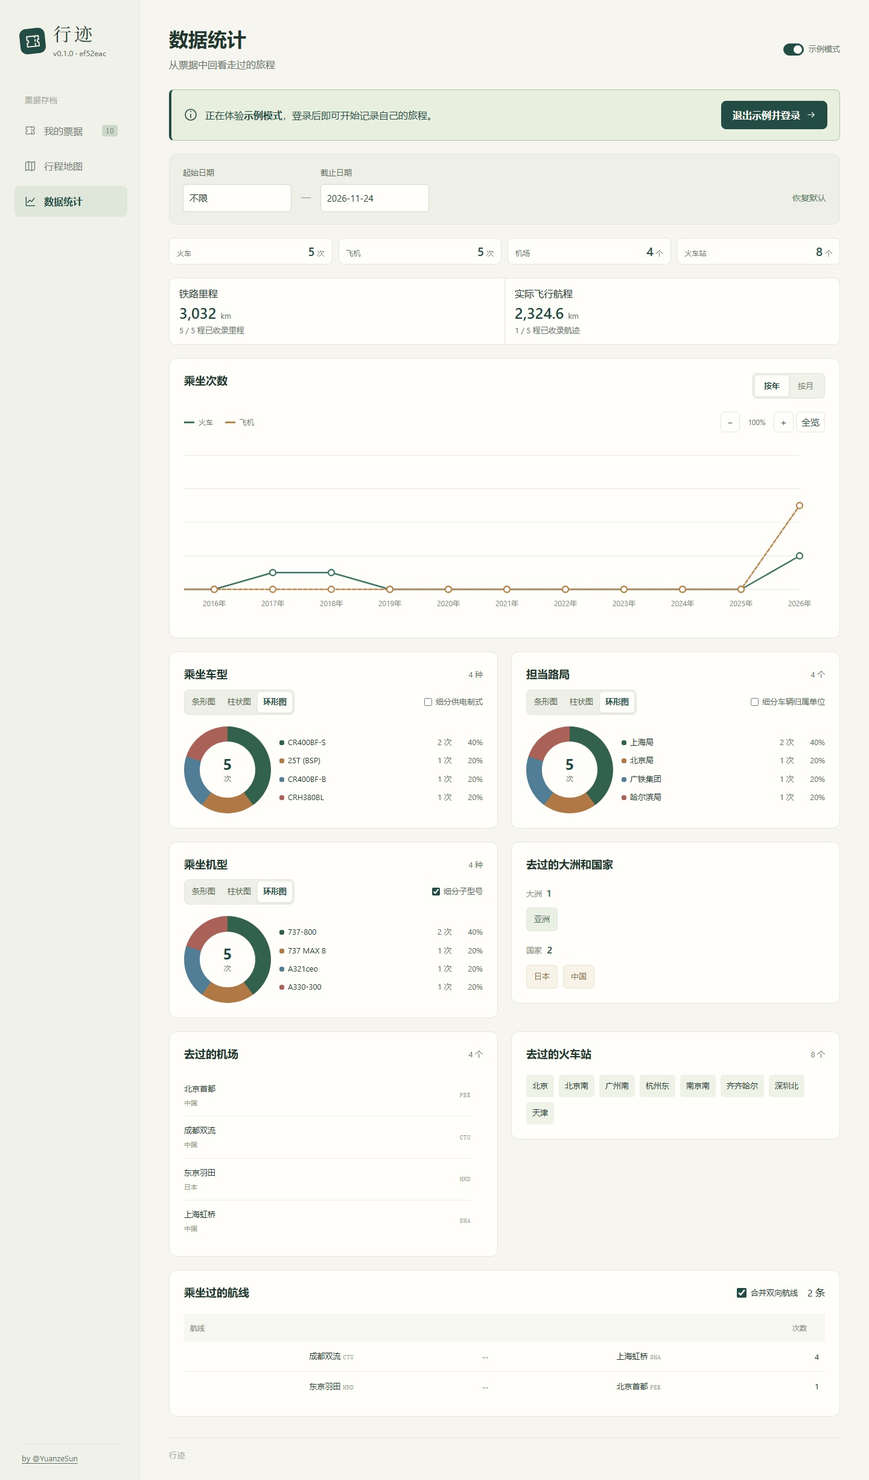
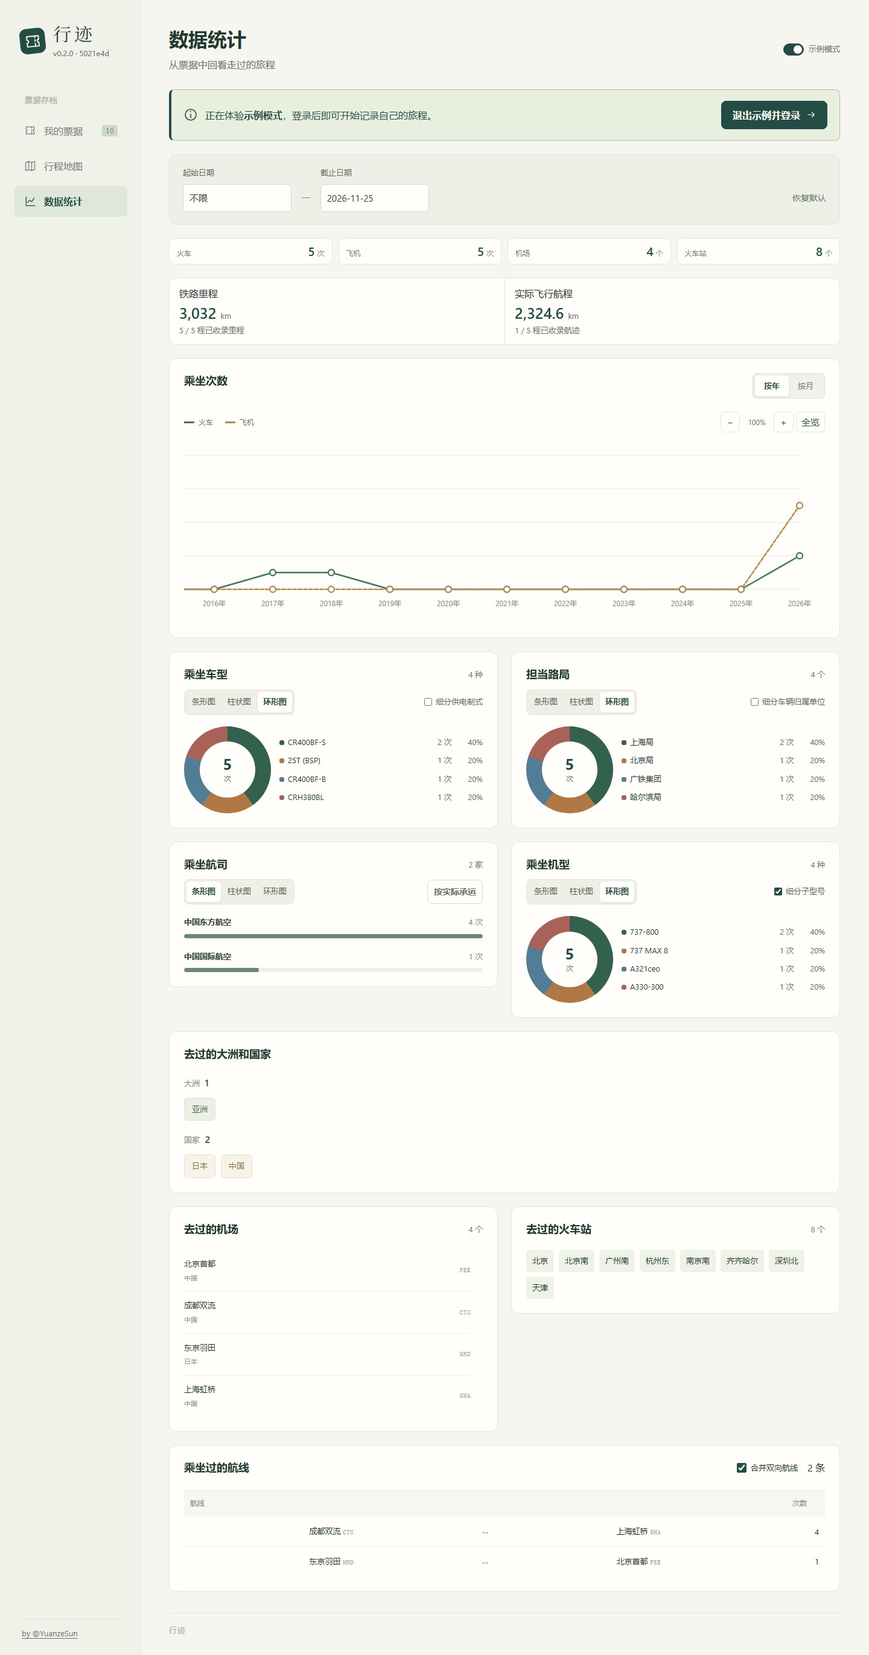
Rank airlines by flight segments with codeshare options

diff --git a/src/statistics.js b/src/statistics.js
@@ -11,7 +11,8 @@ function placesPanel(title, places, type) {
 const rankings = {
   'rail-models': { title: '乘坐车型', data: 'railModels', unit: '种', option: 'railPowerSupplies', label: '细分供电制式' },
   'rail-bureaus': { title: '担当路局', data: 'railBureaus', unit: '个', option: 'railUnits', label: '细分车辆归属单位' },
-  aircraft: { title: '乘坐机型', data: 'aircraft', unit: '种', option: 'aircraftSubtypes', label: '细分子型号' }
+  aircraft: { title: '乘坐机型', data: 'aircraft', unit: '种', option: 'aircraftSubtypes', label: '细分子型号', unknown: 'unknownAircraft', unknownLabel: '未识别机型' },
+  airlines: { title: '乘坐航司', data: 'airlines', unit: '家', defaultView: 'bars', unknown: 'unknownAirlines', unknownLabel: '未识别航司' }
 };
 
 export function mountStatistics(container, records, { options = {} } = {}) {
@@ -22,14 +23,15 @@ export function mountStatistics(container, records, { options = {} } = {}) {
   let series = [],chartCleanup=()=>{};
   const scrollPositions = { year: null, month: null };
   function rankingPanel(kind) {
-    const { title, data, unit, option, label } = rankings[kind];
-    const rows = statistics[data], view = rankingCharts[kind] || 'donut';
+    const { title, data, unit, option, label, defaultView = 'donut', unknown, unknownLabel } = rankings[kind];
+    const rows = statistics[data], view = rankingCharts[kind] || defaultView;
     const chooser = Object.entries(rankingViews).map(([value, name]) => `<button type="button" data-stat-view="${value}" aria-pressed="${view === value}">${name}</button>`).join('');
-    const grouping = `<label><input type="checkbox" data-stat-option="${option}" ${options[option] ? 'checked' : ''}/>${label}</label>`;
-    const unknown = kind === 'aircraft' && statistics.unknownAircraft
-      ? `<p class="fine-print">未识别机型 · ${statistics.unknownAircraft} 次</p>`
-      : '';
-    return `<section class="statistics-panel statistics-ranking" data-stat-ranking="${kind}"><header><h2>${title}</h2><span>${rows.length} ${unit}</span></header><div class="statistics-ranking-controls"><div class="statistics-view-picker" role="group" aria-label="${title}图表样式">${chooser}</div>${grouping}</div><div data-stat-plot>${rankingChartMarkup(title, rows, view)}</div>${unknown}</section>`;
+    const basis = options.marketingAirlines ? '按购票航司' : '按实际承运';
+    const grouping = kind === 'airlines'
+      ? `<button type="button" class="button secondary small" data-stat-option="marketingAirlines" aria-label="${basis}，点击切换代码共享统计口径" title="切换代码共享统计口径">${basis}</button>`
+      : option ? `<label><input type="checkbox" data-stat-option="${option}" ${options[option] ? 'checked' : ''}/>${label}</label>` : '';
+    const unidentified = statistics[unknown] ? `<p class="fine-print">${unknownLabel} · ${statistics[unknown]} 次</p>` : '';
+    return `<section class="statistics-panel statistics-ranking" data-stat-ranking="${kind}"><header><h2>${title}</h2><span>${rows.length} ${unit}</span></header><div class="statistics-ranking-controls"><div class="statistics-view-picker" role="group" aria-label="${title}图表样式">${chooser}</div>${grouping}</div><div data-stat-plot>${rankingChartMarkup(title, rows, view)}</div>${unidentified}</section>`;
   }
   function render() {
     chartCleanup();
@@ -52,8 +54,8 @@ export function mountStatistics(container, records, { options = {} } = {}) {
         `<div><span>${label}</span><strong>${count ? `${distance.toLocaleString('zh-CN', { maximumFractionDigits })} <small>km</small>` : '—'}</strong><span>${count} / ${total} ${coverage}</span></div>`).join('')}</section>
       <section class="statistics-panel statistics-trend"><header><h2>乘坐次数</h2><div class="statistics-period-controls"><div role="group" aria-label="统计图时间粒度">${[['year', '按年'], ['month', '按月']].map(([value, label]) => `<button data-stat-scale="${value}" aria-pressed="${options.period === value}">${label}</button>`).join('')}</div><label ${options.period === 'month' ? '' : 'hidden'}><span class="visually-hidden">月度图年份</span><select data-stat-year aria-label="月度图年份">${[...yearChoices].reverse().map(year => `<option ${options.year === year ? 'selected' : ''}>${e(year)}</option>`).join('')}</select></label></div></header>${tripChartMarkup(series,{zoom:options.chartZoom,viewportWidth:container.clientWidth || 720})}</section>
       <div class="statistics-columns">${rankingPanel('rail-models')}${rankingPanel('rail-bureaus')}</div>
-      <div class="statistics-columns">${rankingPanel('aircraft')}
-      <section class="statistics-panel"><header><h2>去过的大洲和国家</h2></header><h3>大洲 <span>${data.continents.length}</span></h3>${data.continents.length ? `<ul class="statistics-chips">${data.continents.map(row => `<li>${e(row.name)}</li>`).join('')}</ul>` : empty('暂无已识别的大洲')}<h3>国家 <span>${data.countries.length}</span></h3>${data.countries.length ? `<ul class="statistics-chips countries">${data.countries.map(row => `<li>${e(row.name)}</li>`).join('')}</ul>` : empty('暂无已识别的国家')}</section></div>
+      <div class="statistics-columns">${rankingPanel('airlines')}${rankingPanel('aircraft')}</div>
+      <section class="statistics-panel"><header><h2>去过的大洲和国家</h2></header><h3>大洲 <span>${data.continents.length}</span></h3>${data.continents.length ? `<ul class="statistics-chips">${data.continents.map(row => `<li>${e(row.name)}</li>`).join('')}</ul>` : empty('暂无已识别的大洲')}<h3>国家 <span>${data.countries.length}</span></h3>${data.countries.length ? `<ul class="statistics-chips countries">${data.countries.map(row => `<li>${e(row.name)}</li>`).join('')}</ul>` : empty('暂无已识别的国家')}</section>
       <div class="statistics-columns">${placesPanel('去过的机场', data.airports, 'airport')}${placesPanel('去过的火车站', data.stations, 'station')}</div>
       <section class="statistics-panel" data-stat-routes><header><h2>乘坐过的航线</h2><div class="statistics-route-controls"><label><input type="checkbox" data-stat-merge-routes ${options.mergeDirections ? 'checked' : ''}/>合并双向航线</label><span>${data.routes.length} 条</span></div></header>${data.routes.length ? `<div class="statistics-table-scroll"><table class="statistics-routes"><thead><tr><th>航线</th><th>次数</th></tr></thead><tbody>${data.routes.map(route => `<tr><td><div class="statistics-route-pair"><span class="statistics-route-endpoint">${e(route.from.name)} <code>${e(route.from.code)}</code></span><span class="statistics-route-arrow" role="img" aria-label="${options.mergeDirections ? '双向' : '前往'}">${options.mergeDirections ? '↔' : '→'}</span><span class="statistics-route-endpoint">${e(route.to.name)} <code>${e(route.to.code)}</code></span></div></td><td>${route.count}</td></tr>`).join('')}</tbody></table></div>` : empty('暂无可识别的航线')}</section>`}`;
     chartCleanup=bindTripChart(container,series,options,{onZoom:()=>{const scroll=container.querySelector('.statistics-chart-scroll');if(scroll)scrolled({target:scroll});}});
@@ -130,12 +132,17 @@ export function mountStatistics(container, records, { options = {} } = {}) {
     else render();
   }
   const visibility = () => { if (doc.visibilityState === 'visible') refreshDay(); };
+  function setRankingOption(key, value) {
+    options[key] = value;
+    const scroll = container.querySelector('.statistics-chart-scroll');
+    if (scroll) scrollPositions[options.period] = scroll.scrollLeft;
+    render();
+    container.querySelector(`[data-stat-option="${key}"]`).focus();
+  }
   const change = event => {
     const target = event.target;
     if (target.matches('[data-stat-option]') && ['railUnits','railPowerSupplies','aircraftSubtypes'].includes(target.dataset.statOption)) {
-      options[target.dataset.statOption] = target.checked;
-      const scroll=container.querySelector('.statistics-chart-scroll'); if(scroll) scrollPositions[options.period]=scroll.scrollLeft;
-      const key=target.dataset.statOption; render(); container.querySelector(`[data-stat-option="${key}"]`).focus(); return;
+      setRankingOption(target.dataset.statOption, target.checked); return;
     }
     else if (target.matches('[data-stat-merge-routes]')) {
       options.mergeDirections=target.checked;
@@ -147,6 +154,7 @@ export function mountStatistics(container, records, { options = {} } = {}) {
   const click = event => {
     const date = event.target.closest('[data-stat-date]');
     if (date) { openDate(date); return; }
+    if (event.target.closest('[data-stat-option="marketingAirlines"]')) { setRankingOption('marketingAirlines', !options.marketingAirlines); return; }
     const view = event.target.closest('[data-stat-view]');
     if (view) {
       if (view.getAttribute('aria-pressed') === 'true') return;

diff --git a/tests/statistics.test.js b/tests/statistics.test.js
@@ -7,6 +7,7 @@ import { journeyDate } from '../src/journey-date.js';
 import { statisticsOptions, statisticsRange, todayDate, journeyStatistics, tripSeries } from '../src/statistics-model.js';
 import { mountStatistics } from '../src/statistics.js';
 import { flightTrackRequest } from '../src/flight-track.js';
+import { createBoardingCode } from '../src/bcbp.js';
 
 const rail = extra => createRecord({ origin: '北京南', destination: '上海虹桥', departureDate: '2024-02-29', ...extra });
 const flight = extra => createRecord({ type: 'flight', template: 'air-boarding-pass', origin: 'PEK', destination: 'HND', departureDate: '2024-03-01', aircraft: 'Boeing 737-800', ...extra });
@@ -46,7 +47,7 @@ test('rail mileage and flown distance share the date filter and show independent
 });
 
 test('statistics default to an unbounded start and today, compare dates only and respect edited bounds', () => {
-  assert.deepEqual(statisticsOptions({}, '2026-11-16'), { ...range, period: 'year', year: '', chartZoom:1, mergeDirections:true, railUnits:false, railPowerSupplies:false, aircraftSubtypes:true });
+  assert.deepEqual(statisticsOptions({}, '2026-11-16'), { ...range, period: 'year', year: '', chartZoom:1, mergeDirections:true, railUnits:false, railPowerSupplies:false, aircraftSubtypes:true, marketingAirlines:false });
   const rows = [rail({ id: 'past' }), flight({ id: 'today', departureDate: '2026-11-16', departureTime: '23:59' }), rail({ id: 'future', departureDate: '2026-11-17' }), rail({ id: 'deleted', deleted: true }), rail({ id: 'undated', departureDate: '' })];
   const result = statisticsRange(rows, range);
   assert.deepEqual(result.records.map(row => row.id), ['past', 'today']); assert.equal(result.omittedDates, 1);
@@ -86,6 +87,56 @@ test('statistics keep airport and station identities, combine return air routes 
   assert.equal(data.unknownAircraft, 1); assert.equal(data.unknownRoutes, 1); assert.equal(data.unknownPlaces, 1);
   assert.deepEqual(data.countries.map(row => row.code).sort(), ['CN', 'JP']);
   assert.equal(JSON.stringify(rows), before);
+});
+
+test('the airline ranking merges recognized aliases and switches between operating and marketing carriers', () => {
+  const boarding = {
+    passenger: 'EXAMPLE/TRAVELER', pnr: 'AB1234', origin: 'PEK', destination: 'HND',
+    date: '2024-03-01', carrier: 'CX', flightNumber: '1234', seat: '12A', cabin: 'Y', sequence: '12', status: '1'
+  };
+  const code = createBoardingCode(boarding);
+  const rows = [
+    ...['国航', 'ＣＡ', 'CCA', 'Air China', '中国国际航空股份有限公司'].map(airline => flight({ airline })),
+    flight({ service: 'CA 181' }), flight({ service: 'AA81' }), flight({ airline: '美国航空' }),
+    flight({ service: 'CA121', airline: 'CZ', marketingCarrier: 'CA' }),
+    flight({ service: 'CA122', marketingCarrier: 'CA', boardingCode: code, boardingCodeSource: 'original', boardingLegIndex: '0' }),
+    flight({ ...boarding, seatClass: boarding.cabin, service: 'CA123', airline: '国航', marketingCarrier: 'CA',
+      boardingCode: code, boardingCodeSource: 'generated', boardingLegIndex: '0', boardingCodeOperatingFlight: 'CX1234' }),
+    flight({ service: 'CA124', marketingCarrier: 'CA' }), flight({ service: 'YY12' }),
+    flight({ airline: 'JL', departureDate: '2024-01-01' }), flight({ airline: 'JL', departureDate: '2200-01-01' }),
+    flight({ airline: 'JL', flightStatus: 'open' }), flight({ airline: 'JL', deleted: true })
+  ];
+  const options = { ...range, dateFrom: '2024-03-01' }, before = JSON.stringify(rows);
+  const result = journeyStatistics(rows, options, '2026-11-25');
+  assert.equal(result.airlines[0].name, '中国国际航空');
+  assert.deepEqual(Object.fromEntries(result.airlines.map(({ name, count }) => [name, count])), {
+    中国国际航空: 6, 国泰航空: 2, 美國航空: 2, 中国南方航空: 1
+  });
+  assert.equal(result.unknownAirlines, 2);
+  const purchased = journeyStatistics(rows, { ...options, marketingAirlines: true }, '2026-11-25');
+  assert.deepEqual(purchased.airlines, [{ name: '中国国际航空', count: 10 }, { name: '美國航空', count: 2 }]);
+  assert.equal(purchased.unknownAirlines, 1);
+  assert.equal(purchased.flight, result.flight);
+  assert.equal(JSON.stringify(rows), before);
+
+  const dom = new JSDOM('<div id="root"></div>'), root = dom.window.document.querySelector('#root');
+  const cleanup = mountStatistics(root, rows, { options: { ...options } });
+  const panel = () => root.querySelector('[data-stat-ranking="airlines"]');
+  const toggle = () => panel().querySelector('[data-stat-option="marketingAirlines"]');
+  assert.equal(panel().querySelector('header span').textContent, '4 家');
+  assert.match(panel().querySelector('li').textContent, /中国国际航空6 次/);
+  assert.match(panel().textContent, /未识别航司 · 2 次/);
+  panel().querySelector('[data-stat-view="donut"]').click();
+  assert.equal(panel().querySelector('.statistics-ring strong').textContent, '11');
+  assert.equal(toggle().textContent, '按实际承运');
+  toggle().click();
+  assert.equal(toggle().textContent, '按购票航司');
+  assert.equal(dom.window.document.activeElement, toggle());
+  assert.equal(panel().querySelector('.statistics-ring strong').textContent, '12');
+  assert.match(panel().textContent, /未识别航司 · 1 次/);
+  toggle().click();
+  assert.equal(panel().querySelector('.statistics-ring strong').textContent, '11');
+  cleanup(); dom.window.close();
 });
 
 test('geography uses each airport continent and correctly assigns Chinese regions and Lao railway stations', () => {

diff --git a/src/statistics-model.js b/src/statistics-model.js
@@ -1,6 +1,10 @@
 import {calendarDate} from './journey-date.js';
 import { resolvePlace } from './places.js';
 import { aircraftClassification } from './aircraft.js';
+import { airlineNameForCode, airlineNameForLabel } from './airline-codes.js';
+import { readBoardingCode } from './bcbp.js';
+import { operatingFlight } from './boarding-code-state.js';
+import { flightNumber } from './flight-query.js';
 import { dateInterval } from './search.js';
 import { CONTINENT_AIRPORT_CODES } from './data/airport-geography.js';
 import { isJourneyRecord } from './record-kind.js';
@@ -28,7 +32,7 @@ export function todayDate(date = new Date()) {
 export function statisticsOptions(input = {}, today = todayDate()) {
   const selectedEnd = input.dateTo || today;
   const dateTo = dateInterval(selectedEnd)?.end > today ? today : selectedEnd;
-  return { dateFrom: input.dateFrom ?? '', dateTo, period: input.period === 'month' ? 'month' : 'year', year: input.year || '', chartZoom:Number.isFinite(input.chartZoom) ? Math.max(.0001,Math.min(8,input.chartZoom)) : 1, mergeDirections: input.mergeDirections !== false, railUnits:input.railUnits === true, railPowerSupplies:input.railPowerSupplies === true, aircraftSubtypes:input.aircraftSubtypes !== false };
+  return { dateFrom: input.dateFrom ?? '', dateTo, period: input.period === 'month' ? 'month' : 'year', year: input.year || '', chartZoom:Number.isFinite(input.chartZoom) ? Math.max(.0001,Math.min(8,input.chartZoom)) : 1, mergeDirections: input.mergeDirections !== false, railUnits:input.railUnits === true, railPowerSupplies:input.railPowerSupplies === true, aircraftSubtypes:input.aircraftSubtypes !== false, marketingAirlines:input.marketingAirlines === true };
 }
 
 export function statisticsRange(records, input = {}, today = todayDate()) {
@@ -55,11 +59,23 @@ function placeGeography(record, side) {
   return { ...place, country: ['HK', 'MO', 'TW'].includes(place.country) ? 'CN' : place.country, continent: airportContinents.get(place.code) || '' };
 }
 
+function flightAirline(record, byMarketing) {
+  const operated = operatingFlight(record.boardingCodeOperatingFlight)?.carrier;
+  const saved = airlineNameForLabel(operated || record.airline);
+  if (!byMarketing && saved) return saved;
+  const original = record.boardingCodeSource === 'original' && readBoardingCode(record.boardingCode, record.boardingLegIndex);
+  const fromBoardingCode = airlineNameForLabel(original?.carrier);
+  const marketed = airlineNameForLabel(record.marketingCarrier) || airlineNameForLabel(original?.marketingCarrier);
+  const carrier = /^([A-Z]{2,3}|[A-Z]\d|\d[A-Z])\d{1,5}[A-Z]?$/.exec(flightNumber(record.service))?.[1];
+  const byFlightNumber = airlineNameForCode(carrier);
+  return byMarketing ? marketed || byFlightNumber || saved || fromBoardingCode : fromBoardingCode || (marketed ? '' : byFlightNumber);
+}
+
 export function journeyStatistics(records, input = {}, today = todayDate()) {
   const options=statisticsOptions(input, today), range = statisticsRange(records, options, today), rows = range.records;
   const airports = new Map(), stations = new Map(), countries = new Map(), continents = new Set(), routes = new Map(), aircraft = new Map();
-  const railModels = new Map(), railBureaus = new Map();
-  let unknownAircraft = 0, unknownPlaces = 0, unknownRoutes = 0;
+  const railModels = new Map(), railBureaus = new Map(), airlines = new Map();
+  let unknownAircraft = 0, unknownAirlines = 0, unknownPlaces = 0, unknownRoutes = 0;
   let actualFlightDistance = 0, actualFlightDistanceTrips = 0;
   for (const record of rows) {
     if (record.type === 'rail') {
@@ -80,6 +96,9 @@ export function journeyStatistics(records, input = {}, today = todayDate()) {
       if (place.continent) continents.add(place.continent);
     }
     if (record.type !== 'flight') continue;
+    const airline = flightAirline(record, options.marketingAirlines);
+    if (airline) airlines.set(airline, (airlines.get(airline) || 0) + 1);
+    else unknownAirlines++;
     const trackDistance = flightTrackDistanceKm(record.flightTrack);
     if (trackDistance > 0) {
       actualFlightDistance += trackDistance;
@@ -102,11 +121,11 @@ export function journeyStatistics(records, input = {}, today = todayDate()) {
   return { ...range, rail: rows.filter(record => record.type === 'rail').length, flight: rows.filter(record => record.type === 'flight').length,
     years, airports: byName(airports.values()), stations: byName(stations.values()), countries: byName(countries.values()),
     continents: [...continents].sort().map(code => ({ code, name: CONTINENTS[code] })),
-    aircraft: ranked(aircraft),
+    aircraft: ranked(aircraft), airlines: ranked(airlines),
     railMileage:Math.round(mileageTrips.reduce((sum,row)=>sum+Number(row.railMileage),0)*1000)/1000,
     railMileageTrips: mileageTrips.length, actualFlightDistance, actualFlightDistanceTrips,
     railModels: ranked(railModels), railBureaus: ranked(railBureaus),
-    routes: [...routes.values()].sort((a, b) => b.count - a.count || a.id.localeCompare(b.id)), unknownAircraft, unknownPlaces, unknownRoutes };
+    routes: [...routes.values()].sort((a, b) => b.count - a.count || a.id.localeCompare(b.id)), unknownAircraft, unknownAirlines, unknownPlaces, unknownRoutes };
 }
 
 export function tripSeries(records, { period = 'year' } = {}) {

diff --git a/src/airline-codes.js b/src/airline-codes.js
@@ -7,6 +7,8 @@ for(const row of AIRLINES)for(const code of row[3]){
   codes.get(code).push(row);
 }
 const nameKey=value=>String(value || '').normalize('NFKC').toUpperCase().replace(/[^\p{L}\p{N}]/gu,'').replace(/(?:AIR(?:LINES?)?|AIRWAYS)$/,'');
+const labelKey = value => nameKey(value).replace(/(?:股份)?有限公司$|公司$|(?:COLTD|LTD|INCORPORATED|INC|LIMITED)$/, '').replace(/(?:AIR(?:LINES?)?|AIRWAYS)$/, '');
+let labels;
 
 export function airlineNameForCode(value) {
   const code=String(value || '').trim().toUpperCase();
@@ -20,4 +22,24 @@ export function airlineNameForCode(value) {
   const names=new Set([brand.name,...brand.names.filter(name=>!/^[A-Z0-9]{2,3}$/i.test(name))].map(nameKey));
   const identified=matches.filter(([,zh,en,,aliases])=>[zh,en,...aliases].some(name=>name && names.has(nameKey(name))));
   return identified.length===1 ? identified[0][1] || identified[0][2] : brand.name;
+}
+
+export function airlineNameForLabel(value) {
+  const label = String(value || '').trim().normalize('NFKC');
+  if (!label || /^(?:[-—]+|未知|未填写|未识别|n\/?a|null|undefined)$/i.test(label)) return '';
+  const codeName = airlineNameForCode(label);
+  if (codeName) return codeName;
+  const brand = airlineLogo(label);
+  if (brand) return airlineNameForCode(brand.code) || brand.name;
+  if (!labels) {
+    labels = new Map();
+    for (const [, zh, en, , aliases] of AIRLINES) for (const name of [zh, en, ...aliases]) {
+      const key = labelKey(name);
+      if (!key) continue;
+      if (!labels.has(key)) labels.set(key, new Set());
+      labels.get(key).add(zh || en);
+    }
+  }
+  const matches = labels.get(labelKey(label));
+  return matches?.size === 1 ? matches.values().next().value : label;
 }

diff --git a/src/airline-logo.js b/src/airline-logo.js
@@ -10,7 +10,7 @@ for (const [id, logo] of Object.entries(AIRLINE_LOGOS)) {
     names.get(normalized).add(id);
   }
 }
-for (const [name, code] of Object.entries({ 国航:'CA', 东航:'MU', 南航:'CZ', 海航:'HU', 深航:'ZH', 川航:'3U', 厦航:'MF', 厦门航空:'MF', 山航:'SC', 新航:'SQ', 国泰:'CX', 中国春秋航空:'9C' })) {
+for (const [name, code] of Object.entries({ 国航:'CA', 东航:'MU', 南航:'CZ', 海航:'HU', 深航:'ZH', 川航:'3U', 厦航:'MF', 厦门航空:'MF', 山航:'SC', 新航:'SQ', 国泰:'CX', 中国春秋航空:'9C', 美国航空:'AA', 全日空航空:'NH' })) {
   const matches = Object.entries(AIRLINE_LOGOS).filter(([, logo]) => logo.code === code);
   if (matches.length === 1) names.set(key(name), new Set([matches[0][0]]));
 }

diff --git a/docs/statistics.md b/docs/statistics.md
@@ -17,6 +17,7 @@ OPEN 票、无效机票保留在票夹并在登机牌主券和副券上标识，
 
   车型支持普速客车与动车组。未填写车型时，读取票据中日期、车次及区间均匹配的已保存车组快照；不根据车厢图片的现行车型推断历史车型，也不在线查询。重联的同型号车组在同一次行程只计一次，不同型号分别计入各自车型。
 - 乘坐机型，按已有机型文字归并，统一大小写、厂商前缀和常见波音 B 前缀，不推断未填写的型号。默认“细分子型号”，关闭后将已识别型号归入系列，例如 737-200、737-800 和 737 MAX 8 合并为 737；DHC-8 的不同子型号合并为 DHC-8。模糊代码与未识别文字保持各自身份。
+- 乘坐航司按航段计数，合并参考库已确认的航司代码、中英文名称和简称。默认按实际承运统计，已知为营销航司且承运方不明的航段计入未识别。切换到按购票航司时，优先使用已收录的营销航司，也可从票据上的航班号识别。
 - 去过的大洲、国家、机场和火车站。按记录的起终点统计，不推断经停、实际入境或完整旅行足迹。无法确认身份的端点暂不计入。机场列表与按站名长度排列的火车站标签均限制高度并支持滚动；火车站只显示名称，电报码留在内部匹配和存储使用。
 - 航线按具体机场配对，默认合并双向，可关闭“合并双向航线”分别统计 A→B 与 B→A。同一城市的不同机场分别统计；切换口径不改变乘坐次数等其他统计，也不修改票据。
 

diff --git a/README.md b/README.md
@@ -10,7 +10,7 @@
 - **导入乘车记录** 在电脑上通过 12306 铁路畅行积分明细查询乘车记录，逐张核对后保存。
 - **还原票面** 支持各版红色软纸票、蓝色磁介质票、列车移动补票、纸质报销凭证、退票费报销凭证和登机牌。
 - **补全行程** 查询列车和航班资料，记录经停、车组、机型、行李等信息。
-- **回顾旅行** 按月份整理票夹，在地图上查看路线和播放年度行程，用统计了解乘坐次数、车型和机型。
+- **回顾旅行** 按月份整理票夹，在地图上查看路线和播放年度行程，用统计查看乘坐次数、航司、车型和机型。
 - **导出与同步** 导出票据图片和旅行纪念册，支持 JSON 备份恢复及 GitHub 私有仓库、Cloudflare D1 同步。
 
 ## 效果预览
